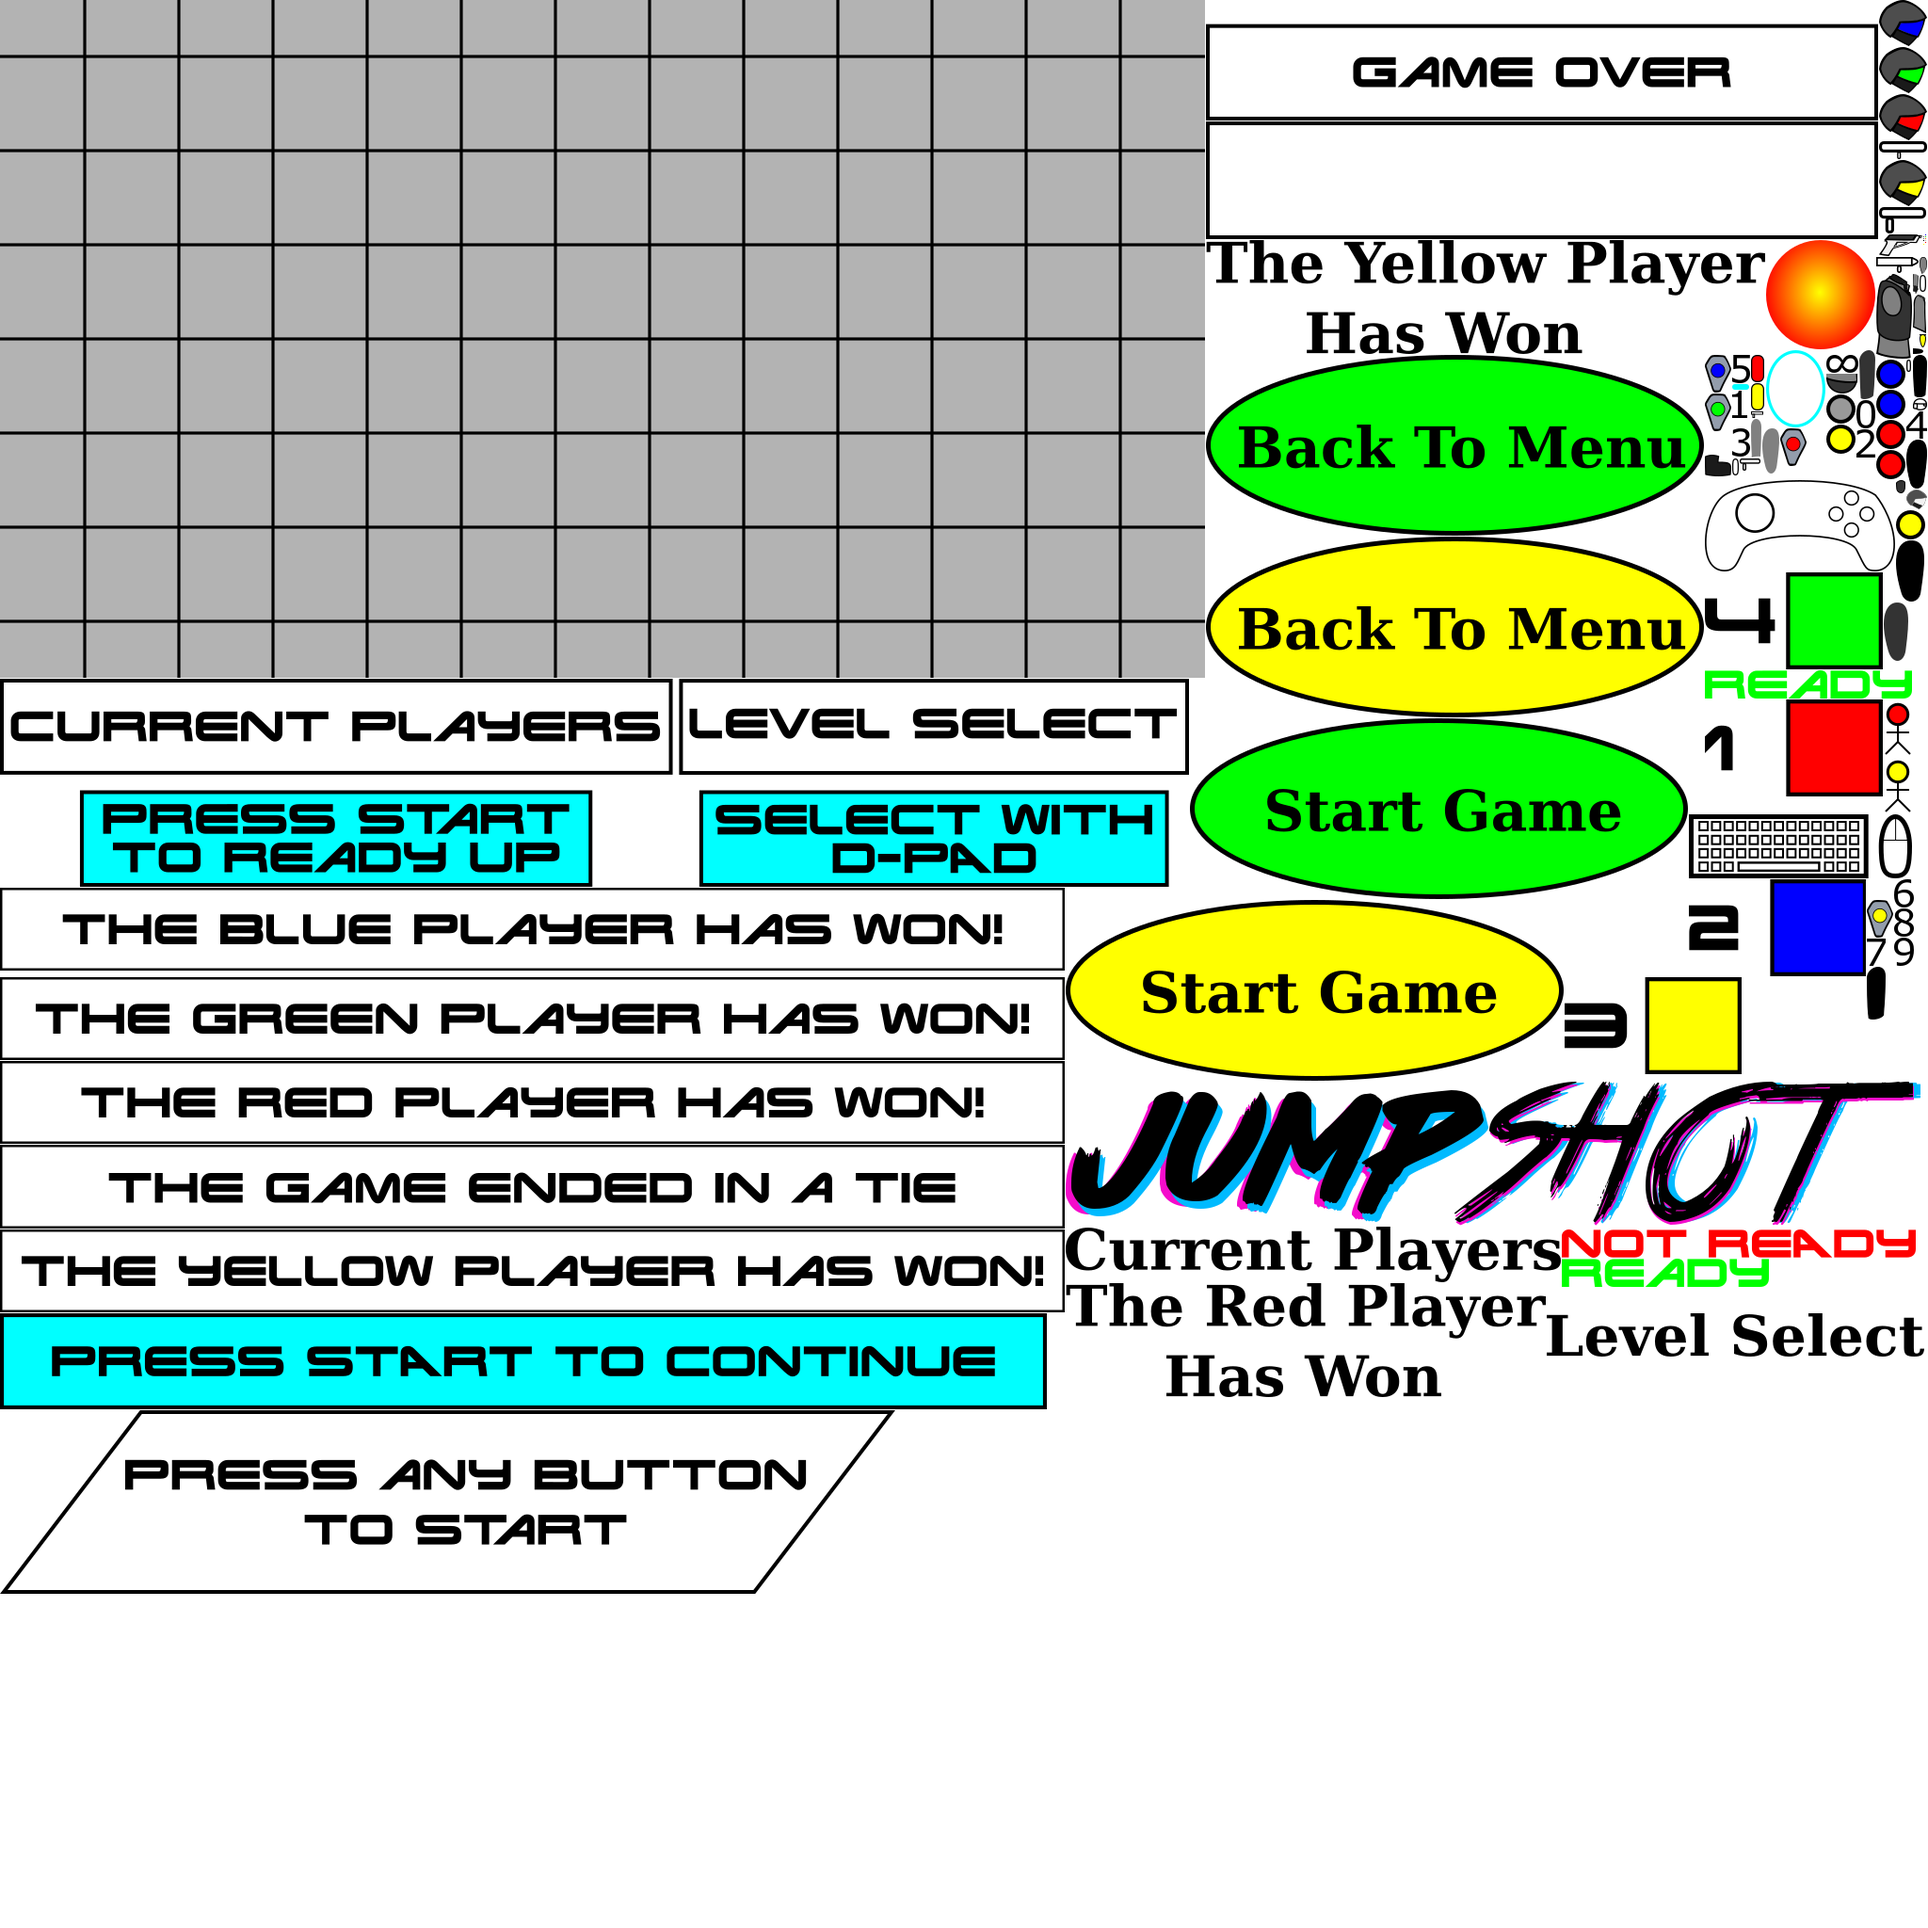
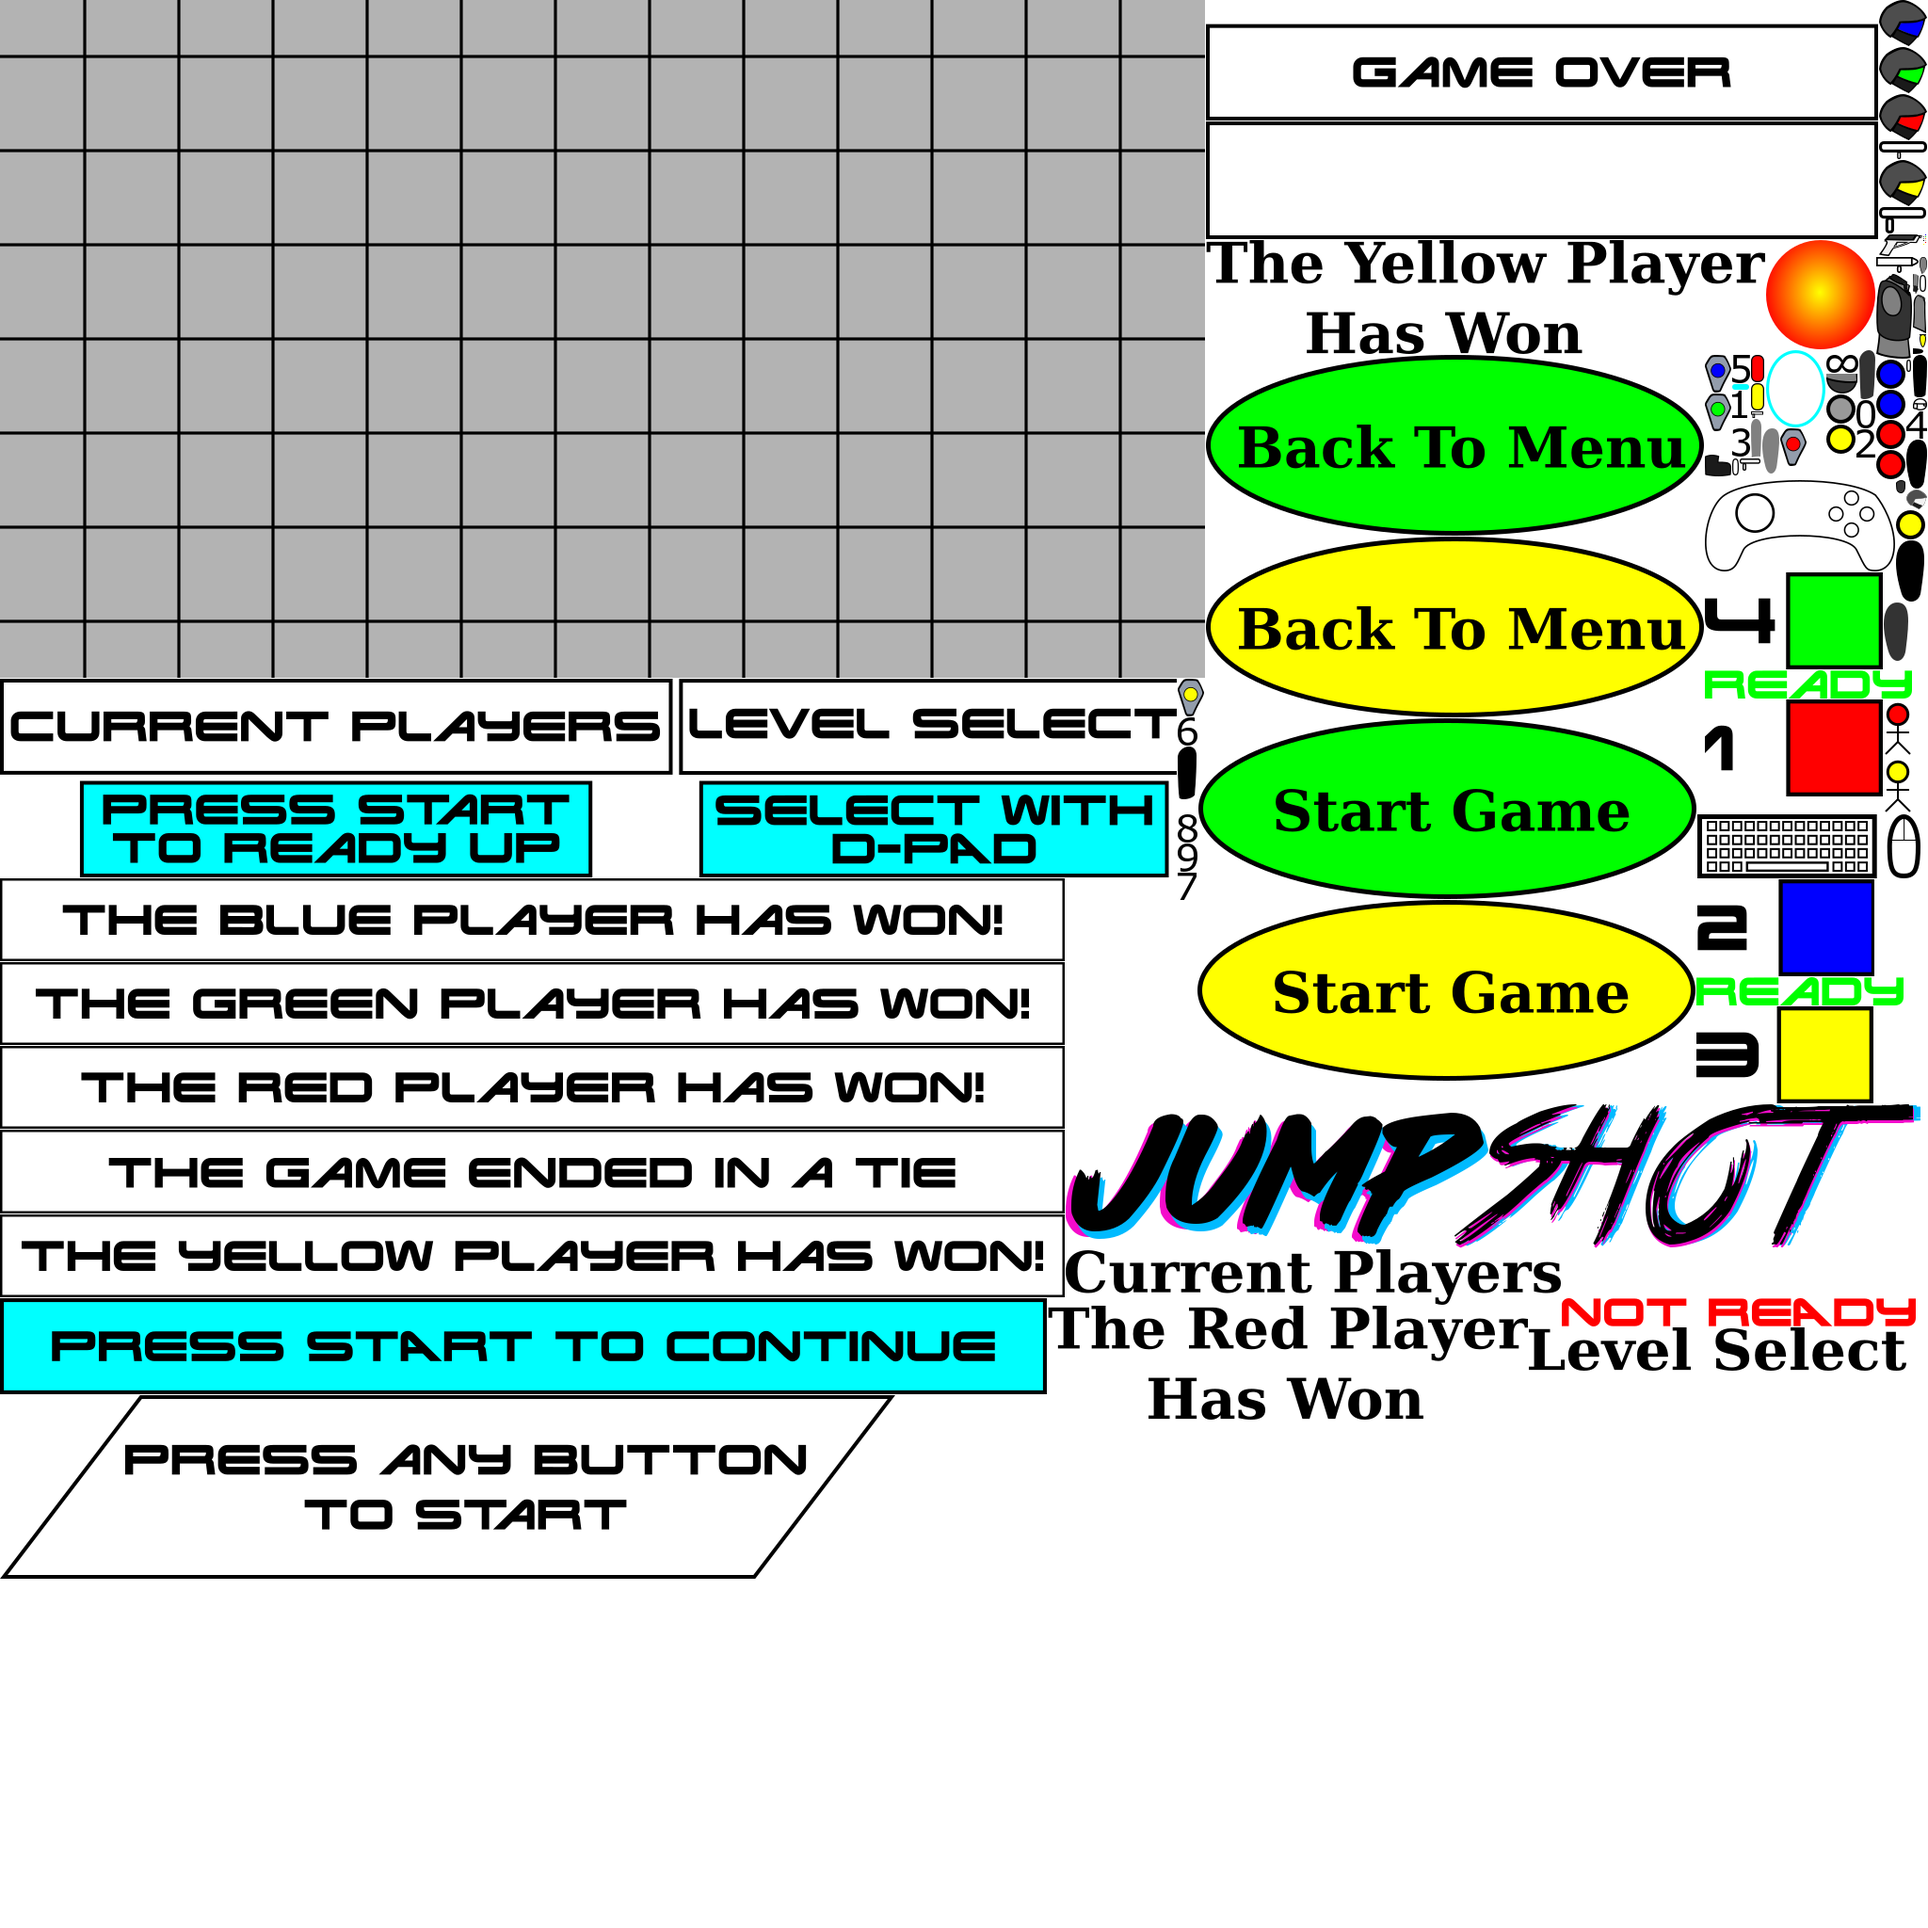
Minor ui changes

Changed region(s): [[0.0, 0.3438, 1.0, 0.8438]]

diff --git a/src/gamescreen.cpp b/src/gamescreen.cpp
@@ -57,49 +57,49 @@ void GameScreen::render(RenderList& list) const {
 
     list.pop();
 
-    //TODO: figure out what HUD elements are staying
-    //list.add_image("black", 0, 660, 1280, 60);
+    // TODO: figure out what HUD elements are staying
+    list.add_image("black", 0, 660, 1280, 60);
 
-//    for (unsigned int i = 0; i < players.size(); i++) {
-//        const auto& player = players[i];
-//
-//        int x_offset = 0;
-//
-//        if (i == 0) {
-//            x_offset = 275/2.0;
-//        } else {
-//            x_offset = 1280 - 275/2.0;
-//        }
-//
-//        list.translate(x_offset, 0);
-//
-//        Rectangle info_box(0, 690, 275, 60);
-//        list.add_rect("white", info_box);
-//        list.add_outline("black", info_box);
-//
-//        std::string life_color = "life-" + get_color_name(player.info.color);
-//
-//        const char* dead_color = "deadLife";
-//
-//        for (int i = 0; i < 3; i++) {
-//            Rectangle life_box(-100 + i * 45, 690, 30, 30);
-//            list.add_rect(player.state.lives_left > i ? life_color : dead_color, life_box);
-//        }
-//
-//        {
-//            list.translate(40, 690);
-//            player.state.gun->render_large(list);
-//            list.translate(-40, -690);
-//        }
-//
-//        if (player.state.ammo_left != -1) {
-//            list.add_number(80, 705, player.state.ammo_left);
-//        } else {
-//            list.add_image("inf", 80, 705 - 19);
-//        }
-//
-//        list.translate(-x_offset, 0);
-//    }
+   for (unsigned int i = 0; i < players.size(); i++) {
+       const auto& player = players[i];
+
+       int x_offset = 0;
+
+       if (i == 0) {
+           x_offset = 275/2.0;
+       } else {
+           x_offset = 1280 - 275/2.0;
+       }
+
+       list.translate(x_offset, 0);
+
+       Rectangle info_box(0, 690, 275, 60);
+       list.add_rect("white", info_box);
+       list.add_outline("black", info_box);
+
+       std::string life_color = "life-" + get_color_name(player.info.color);
+
+       const char* dead_color = "deadLife";
+
+       for (int i = 0; i < 3; i++) {
+           Rectangle life_box(-100 + i * 45, 690, 30, 30);
+           list.add_rect(player.state.lives_left > i ? life_color : dead_color, life_box);
+       }
+
+       {
+           list.translate(40, 690);
+           player.state.gun->render_large(list);
+           list.translate(-40, -690);
+       }
+
+       if (player.state.ammo_left != -1) {
+           list.add_number(80, 705, player.state.ammo_left);
+       } else {
+           list.add_image("inf", 80, 705 - 19);
+       }
+
+       list.translate(-x_offset, 0);
+   }
 
     if (game_over) {
         std::string winning_color = "tie";

diff --git a/src/readyscreen.cpp b/src/readyscreen.cpp
@@ -27,7 +27,8 @@ void ReadyScreen::render(RenderList& list) const {
 	list.add_image("ready-header", 10, 10);
 
 	for (unsigned int i = 0; i < players.size(); i++) {
-		list.translate(0, 275 + i * 140);
+		list.push();
+		list.translate(0, 225 + i * 122);
 		const PlayerInfo& player = players[i];
 
 		list.add_image("ready-box-outline", 10, 0);
@@ -45,10 +46,10 @@ void ReadyScreen::render(RenderList& list) const {
 			list.add_image("not-ready-text", 325, 50);
 		}
 
-		list.translate(0, -(275 + i * 140.0));
+		list.pop();
 	}
 
-	Rectangle level_border(995, 475, 270, 480);
+	Rectangle level_border(995, 470, 270, 490);
 	list.add_rect("white", level_border);
 	list.add_outline("black", level_border);
 

diff --git a/src/main.cpp b/src/main.cpp
@@ -13,7 +13,7 @@
 const int screen_width = 1280;
 const int screen_height = 720;
 
-const bool debug_keyboard_player = true;
+const bool debug_keyboard_player = false;
 
 struct MainData {
     std::unique_ptr<Screen> current_screen;
